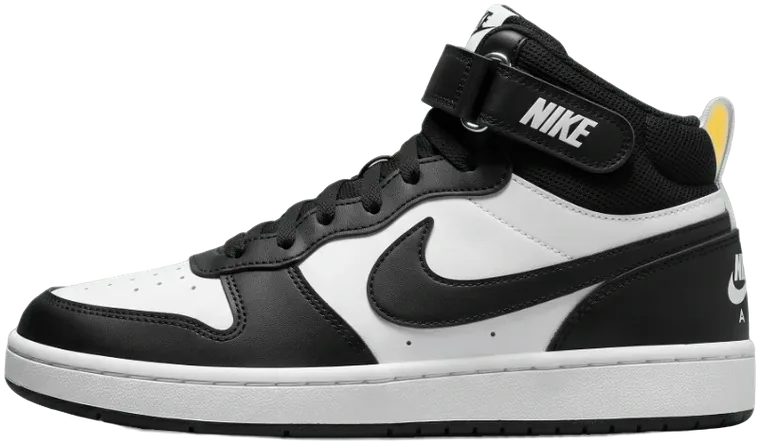
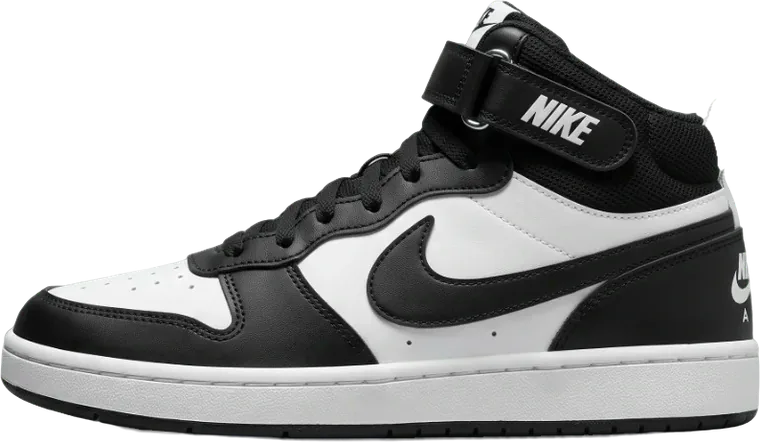
fix(vitrin): ayakkabı arkasındaki halkalarda kalan fon rengi temizlendi
Zoom X (Black/White), Court Borough Mid ve Mid 2'de topuk çekme
halkasının içinde kalan kırmızı/sarı fon şeffaf yapıldı; Vans Knu
Skool çiftinin arasındaki bej fon parçası da kaldırıldı.

Claude-Session: https://claude.ai/code/session_01329167L9YeGwjcAKX4KsRh

diff --git a/index.html b/index.html
@@ -3663,7 +3663,7 @@ document.addEventListener('click', function (e) {
     };
     const LEAD = [45, 28, 32, 29, 89, 6, 8, 4, 34, 22, 96, 102, 95, 98, 103, 104, 94, 91, 105, 114, 124, 125, 120, 129, 133, 139, 147];
     /* Cut-out aspect ratios (width / height) so boxes are right before the images arrive. */
-    const AR = {"1":1.857,"2":1.0,"3":2.015,"4":2.104,"5":2.227,"6":2.111,"7":2.065,"8":1.979,"9":2.082,"10":2.302,"11":2.095,"12":2.117,"13":2.287,"14":2.384,"15":2.215,"16":2.156,"17":2.117,"18":2.041,"19":2.158,"20":2.114,"21":2.209,"22":2.217,"23":2.274,"24":2.117,"25":2.1,"26":2.05,"27":2.046,"28":2.017,"29":2.057,"30":2.118,"31":1.997,"32":1.99,"33":1.99,"34":2.477,"35":2.227,"36":2.387,"37":2.197,"38":2.227,"39":1.919,"40":2.048,"41":2.145,"42":2.199,"43":1.921,"44":1.935,"45":1.96,"46":2.076,"47":1.997,"48":1.997,"49":2.24,"50":2.089,"51":1.386,"52":1.303,"53":1.319,"54":1.316,"55":2.017,"56":2.029,"57":1.267,"58":1.949,"59":1.605,"60":2.005,"61":2.144,"62":1.967,"63":2.11,"64":2.093,"65":2.01,"66":1.985,"67":1.663,"68":1.706,"69":2.181,"70":2.098,"71":2.077,"72":1.972,"73":2.182,"74":1.938,"75":1.92,"76":1.971,"77":1.889,"78":1.749,"79":1.801,"80":1.963,"81":1.889,"82":2.069,"83":1.829,"84":2.038,"85":2.03,"86":1.91,"87":1.893,"88":1.953,"89":2.029,"90":2.155,"91":1.323,"92":1.33,"93":1.181,"94":1.34,"95":1.238,"96":1.541,"97":1.199,"98":0.825,"99":1.605,"100":1.472,"101":1.324,"102":1.448,"103":0.629,"104":0.629,"105":1.595,"106":1.726,"107":1.667,"108":1.644,"109":1.656,"110":0.586,"111":0.691,"112":2.345,"113":2.301,"114":1.639,"115":1.663,"116":1.525,"117":1.576,"118":1.319,"119":1.378,"120":1.26,"121":1.121,"122":1.329,"123":1.585,"124":1.5,"125":1.351,"126":1.713,"127":1.388,"128":1.599,"129":1.538,"130":1.392,"131":1.373,"132":1.534,"133":1.532,"134":1.559,"135":1.158,"136":1.447,"137":1.35,"138":1.327,"139":1.346,"140":1.277,"141":1.486,"142":1.566,"143":1.275,"144":1.429,"145":1.344,"146":1.18,"147":2.161,"148":2.163,"149":1.46,"150":1.457,"151":1.115,"152":1.332,"153":1.79,"154":1.618,"155":1.675,"156":1.752,"157":1.72,"158":1.665,"159":1.364};
+    const AR = {"1":1.857,"2":1.0,"3":2.015,"4":2.104,"5":2.227,"6":2.111,"7":2.065,"8":1.979,"9":2.082,"10":2.302,"11":2.095,"12":2.117,"13":2.287,"14":2.384,"15":2.215,"16":2.156,"17":2.117,"18":2.041,"19":2.158,"20":2.114,"21":2.209,"22":2.217,"23":2.274,"24":2.117,"25":2.1,"26":2.05,"27":2.046,"28":2.017,"29":2.057,"30":2.118,"31":1.997,"32":1.99,"33":1.99,"34":2.477,"35":2.227,"36":2.387,"37":2.197,"38":2.227,"39":1.919,"40":2.048,"41":2.145,"42":2.199,"43":1.921,"44":1.935,"45":1.96,"46":2.098,"47":1.997,"48":1.997,"49":2.24,"50":2.089,"51":1.386,"52":1.303,"53":1.319,"54":1.316,"55":2.017,"56":2.029,"57":1.267,"58":1.949,"59":1.616,"60":2.005,"61":2.144,"62":1.967,"63":2.11,"64":2.093,"65":2.01,"66":1.985,"67":1.663,"68":1.719,"69":2.181,"70":2.098,"71":2.077,"72":1.972,"73":2.182,"74":1.938,"75":1.92,"76":1.971,"77":1.889,"78":1.749,"79":1.801,"80":1.963,"81":1.889,"82":2.069,"83":1.829,"84":2.038,"85":2.03,"86":1.91,"87":1.893,"88":1.953,"89":2.029,"90":2.155,"91":1.323,"92":1.33,"93":1.181,"94":1.34,"95":1.238,"96":1.541,"97":1.199,"98":0.825,"99":1.605,"100":1.472,"101":1.324,"102":1.448,"103":0.629,"104":0.629,"105":1.595,"106":1.726,"107":1.667,"108":1.644,"109":1.656,"110":0.586,"111":0.691,"112":2.345,"113":2.301,"114":1.639,"115":1.663,"116":1.525,"117":1.576,"118":1.319,"119":1.378,"120":1.26,"121":1.121,"122":1.329,"123":1.585,"124":1.5,"125":1.351,"126":1.713,"127":1.388,"128":1.599,"129":1.538,"130":1.392,"131":1.373,"132":1.534,"133":1.532,"134":1.559,"135":1.158,"136":1.447,"137":1.35,"138":1.327,"139":1.346,"140":1.277,"141":1.486,"142":1.566,"143":1.275,"144":1.429,"145":1.344,"146":1.18,"147":2.161,"148":2.163,"149":1.46,"150":1.457,"151":1.115,"152":1.332,"153":1.79,"154":1.618,"155":1.675,"156":1.752,"157":1.72,"158":1.665,"159":1.364};
     const COLORS = new Set(['white', 'black', 'blue', 'red', 'pink', 'brown', 'purple', 'green', 'gray', 'grey', 'silver', 'bej', 'beige',
         'siyah', 'beyaz', 'bordo', 'kahve', 'gümüş', 'gold', 'şeffaf', 'pembe', 'taba', 'lacivert', 'gri', 'yeşil', 'kırmızı', 'mavi', 'mor']);
     const LEAD_MODS = new Set(['full', 'triple', 'acı', 'dark']);
